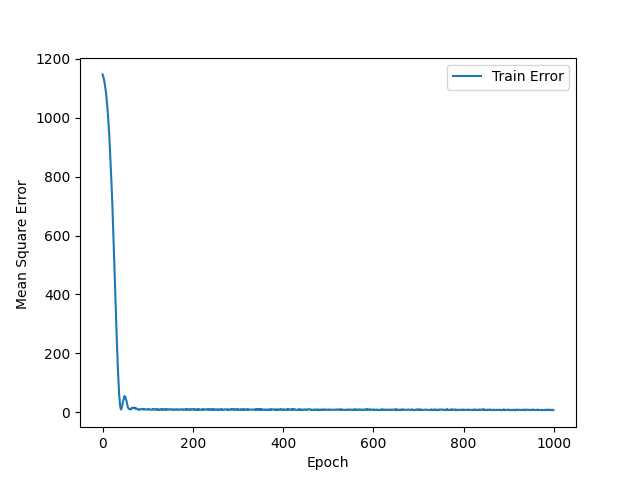
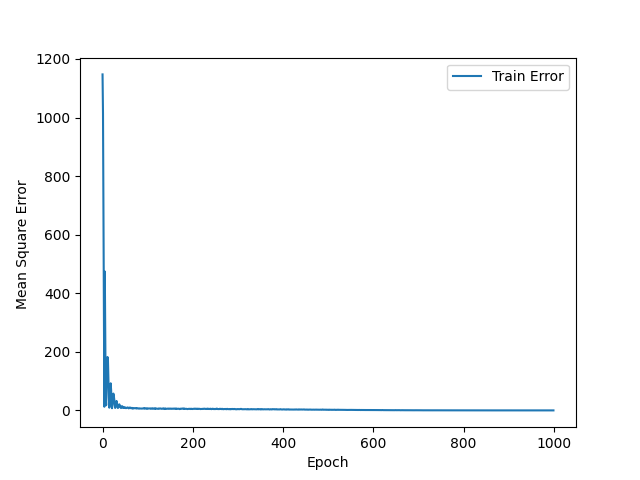
check images with RMSE 0.20

diff --git a/feedforward.py b/feedforward.py
@@ -118,7 +118,7 @@ def main():
     model.add(Dense(n_steps_out))
     
     # select the optimizer with learning rate 
-    optim_adam=keras.optimizers.Adam(lr=0.01)
+    optim_adam=keras.optimizers.Adam(lr=0.1)
 
     # Configure the model and start training
     #we use MSE because it is a regression problem
